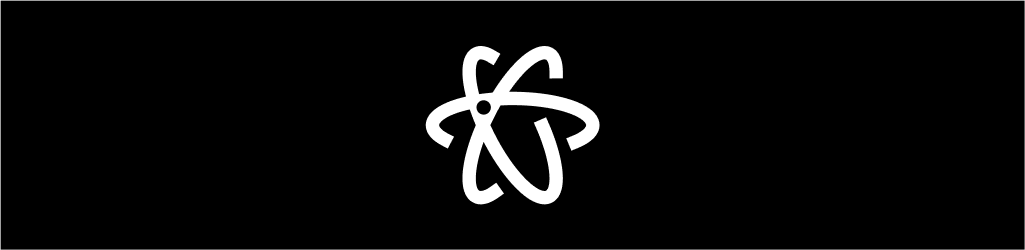
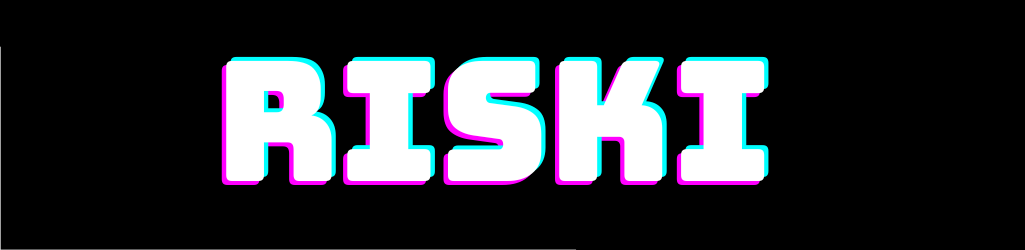
update tali lanyard

Changed region(s): [[0.2185, 0.168, 0.7493, 0.812], [0.0, 0.0, 1.0, 1.0]]

diff --git a/scripts/generate-lanyard-assets.js b/scripts/generate-lanyard-assets.js
@@ -1,0 +1,222 @@
+const { Jimp } = require("jimp");
+const fs = require("fs");
+const path = require("path");
+
+const ASSETS_DIR = path.join(__dirname, "..", "public", "assets", "lanyard");
+const IMAGES_DIR = path.join(__dirname, "..", "public", "images");
+
+function rgba(r, g, b, a = 255) {
+  return ((r & 0xff) << 24) | ((g & 0xff) << 16) | ((b & 0xff) << 8) | (a & 0xff);
+}
+
+function hexToInt(hex) {
+  return rgba(parseInt(hex.slice(1, 3), 16), parseInt(hex.slice(3, 5), 16), parseInt(hex.slice(5, 7), 16), 255);
+}
+
+function lerpColor(c1, c2, t) {
+  const r1 = (c1 >> 24) & 0xff, g1 = (c1 >> 16) & 0xff, b1 = (c1 >> 8) & 0xff;
+  const r2 = (c2 >> 24) & 0xff, g2 = (c2 >> 16) & 0xff, b2 = (c2 >> 8) & 0xff;
+  return rgba(
+    Math.round(r1 + (r2 - r1) * t),
+    Math.round(g1 + (g2 - g1) * t),
+    Math.round(b1 + (b2 - b1) * t),
+    255
+  );
+}
+
+// ==============================
+// STRAP TEXTURE - Blue with "WEB DEVELOPER </>"
+// ==============================
+async function generateStrapTexture() {
+  const width = 1024;
+  const height = 256;
+
+  console.log("Creating strap image...");
+  const img = new Jimp({ width, height });
+
+  const black = rgba(0, 0, 0, 255);
+  const white = rgba(255, 255, 255, 255);
+  const textBandCenter = height / 2;
+
+  // Process all pixels
+  img.scan(0, 0, width, height, function (x, y, idx) {
+    let finalColor = black;
+
+    // Draw text pattern - "RiskiWs"
+    const blockWidth = 200;
+    const relX = x % blockWidth;
+
+    // R
+    if (relX >= 10 && relX < 24) {
+      const dy = y - textBandCenter;
+      if (Math.abs(dy) < 35) finalColor = white;
+    }
+    // i
+    if (relX >= 28 && relX < 36) {
+      const dy = y - textBandCenter;
+      if (Math.abs(dy) < 35) finalColor = white;
+    }
+    // s
+    if (relX >= 40 && relX < 52) {
+      const dy = y - textBandCenter;
+      if (Math.abs(dy) < 35) finalColor = white;
+    }
+    // k
+    if (relX >= 56 && relX < 68) {
+      const dy = y - textBandCenter;
+      if (Math.abs(dy) < 35) finalColor = white;
+    }
+    // i
+    if (relX >= 72 && relX < 80) {
+      const dy = y - textBandCenter;
+      if (Math.abs(dy) < 35) finalColor = white;
+    }
+    // W
+    if (relX >= 84 && relX < 100) {
+      const dy = y - textBandCenter;
+      if (Math.abs(dy) < 35) finalColor = white;
+    }
+    // s
+    if (relX >= 104 && relX < 116) {
+      const dy = y - textBandCenter;
+      if (Math.abs(dy) < 35) finalColor = white;
+    }
+
+    // Separator dot
+    if (relX >= blockWidth - 14 && relX <= blockWidth - 6) {
+      const dx = relX - (blockWidth - 10);
+      const dy = y - textBandCenter;
+      if (Math.abs(dx) < 4 && Math.abs(dy) < 4) finalColor = white;
+    }
+
+    // Set final pixel
+    this.bitmap.data[idx + 0] = (finalColor >> 24) & 0xff;
+    this.bitmap.data[idx + 1] = (finalColor >> 16) & 0xff;
+    this.bitmap.data[idx + 2] = (finalColor >> 8) & 0xff;
+    this.bitmap.data[idx + 3] = finalColor & 0xff;
+  });
+
+  const outPath = path.join(ASSETS_DIR, "lanyard.png");
+  await img.write(outPath);
+  console.log(`Generated strap: ${outPath} (${width}x${height})`);
+}
+
+// ==============================
+// CARD FRONT TEXTURE - Formal photo with dark theme styling
+// ==============================
+async function generateCardTexture() {
+  const formalPath = path.join(IMAGES_DIR, "formal.png");
+
+  if (!fs.existsSync(formalPath)) {
+    console.log("formal.png not found, skipping card texture processing");
+    return;
+  }
+
+  console.log("Processing formal photo...");
+  const img = await Jimp.read(formalPath);
+  const imgW = img.bitmap.width;
+  const imgH = img.bitmap.height;
+
+  const cardW = 1080;
+  const cardH = Math.round(cardW * (imgH / imgW));
+
+  // Resize photo to cover canvas
+  const scale = Math.max(cardW / imgW, cardH / imgH);
+  const scaledW = Math.round(imgW * scale);
+  const scaledH = Math.round(imgH * scale);
+  img.resize({ w: scaledW, h: scaledH });
+
+  // Crop to center
+  const offsetX = Math.round((scaledW - cardW) / 2);
+  const offsetY = Math.round((scaledH - cardH) / 2);
+  img.crop({ x: offsetX, y: offsetY, w: cardW, h: cardH });
+
+  // Create card canvas and composite photo
+  const card = new Jimp({ width: cardW, height: cardH });
+  card.composite(img, 0, 0);
+
+  // Apply dark gradient overlay + vignette + bottom bar
+  const borderColor = rgba(255, 255, 255, 20);
+  const barY = cardH - 100;
+
+  card.scan(0, 0, cardW, cardH, function (x, y, idx) {
+    // Current pixel
+    let r = this.bitmap.data[idx + 0];
+    let g = this.bitmap.data[idx + 1];
+    let b = this.bitmap.data[idx + 2];
+
+    // Gradient overlay (dark at bottom)
+    const t = y / cardH;
+    let overlay = 0;
+    if (t > 0.5) {
+      overlay = (t - 0.5) * 2 * 0.85;
+    } else if (t > 0.2) {
+      overlay = ((t - 0.2) / 0.3) * 0.5;
+    }
+    overlay = Math.min(0.85, Math.max(0.05, overlay));
+
+    // Vignette
+    const dxNorm = Math.abs(x - cardW / 2) / (cardW / 2);
+    const vignette = Math.pow(dxNorm, 2) * 0.3;
+    const total = Math.min(0.9, overlay + vignette);
+
+    r = Math.round(r * (1 - total) + 5 * total);
+    g = Math.round(g * (1 - total) + 5 * total);
+    b = Math.round(b * (1 - total) + 5 * total);
+
+    // Bottom bar
+    if (y >= barY) {
+      r = Math.round(r * 0.3 + 5 * 0.7);
+      g = Math.round(g * 0.3 + 5 * 0.7);
+      b = Math.round(b * 0.3 + 5 * 0.7);
+    }
+
+    // Border pixels
+    if (x === 4 || x === cardW - 5 || y === 4 || y === cardH - 5) {
+      r = Math.min(255, r + 20);
+      g = Math.min(255, g + 20);
+      b = Math.min(255, b + 20);
+    }
+
+    // Blue accent line on bar
+    if (y === barY || y === barY + 1) {
+      if (x >= 40 && x < 100) {
+        r = Math.round(r * 0.6 + 59 * 0.4);
+        g = Math.round(g * 0.6 + 130 * 0.4);
+        b = Math.round(b * 0.6 + 246 * 0.4);
+      }
+    }
+
+    // Noise/grain
+    if (Math.random() < 0.008) {
+      const n = Math.random() < 0.5 ? 5 : -5;
+      r = Math.max(0, Math.min(255, r + n));
+      g = Math.max(0, Math.min(255, g + n));
+      b = Math.max(0, Math.min(255, b + n));
+    }
+
+    this.bitmap.data[idx + 0] = r;
+    this.bitmap.data[idx + 1] = g;
+    this.bitmap.data[idx + 2] = b;
+    this.bitmap.data[idx + 3] = 255;
+  });
+
+  const outPath = path.join(IMAGES_DIR, "lanyard-card-front.png");
+  await card.write(outPath);
+  console.log(`Generated card front: ${outPath} (${cardW}x${cardH})`);
+}
+
+// ==============================
+// RUN
+// ==============================
+async function main() {
+  console.log("=== Generating Lanyard Assets ===\n");
+  await generateStrapTexture();
+  await generateCardTexture();
+  console.log("\n=== Done! ===");
+}
+
+main().catch(err => {
+  console.error("Error:", err);
+  process.exit(1);
+});
